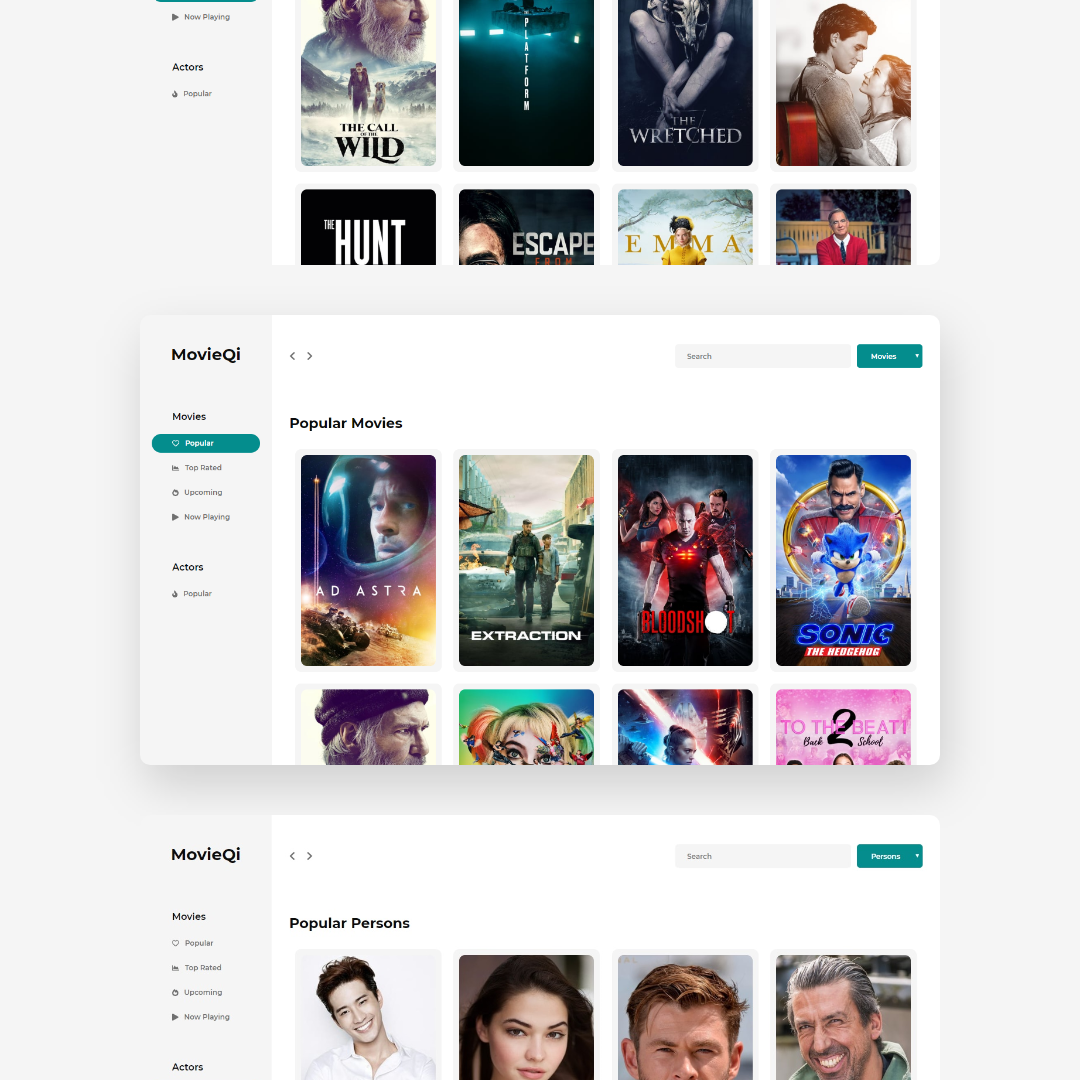
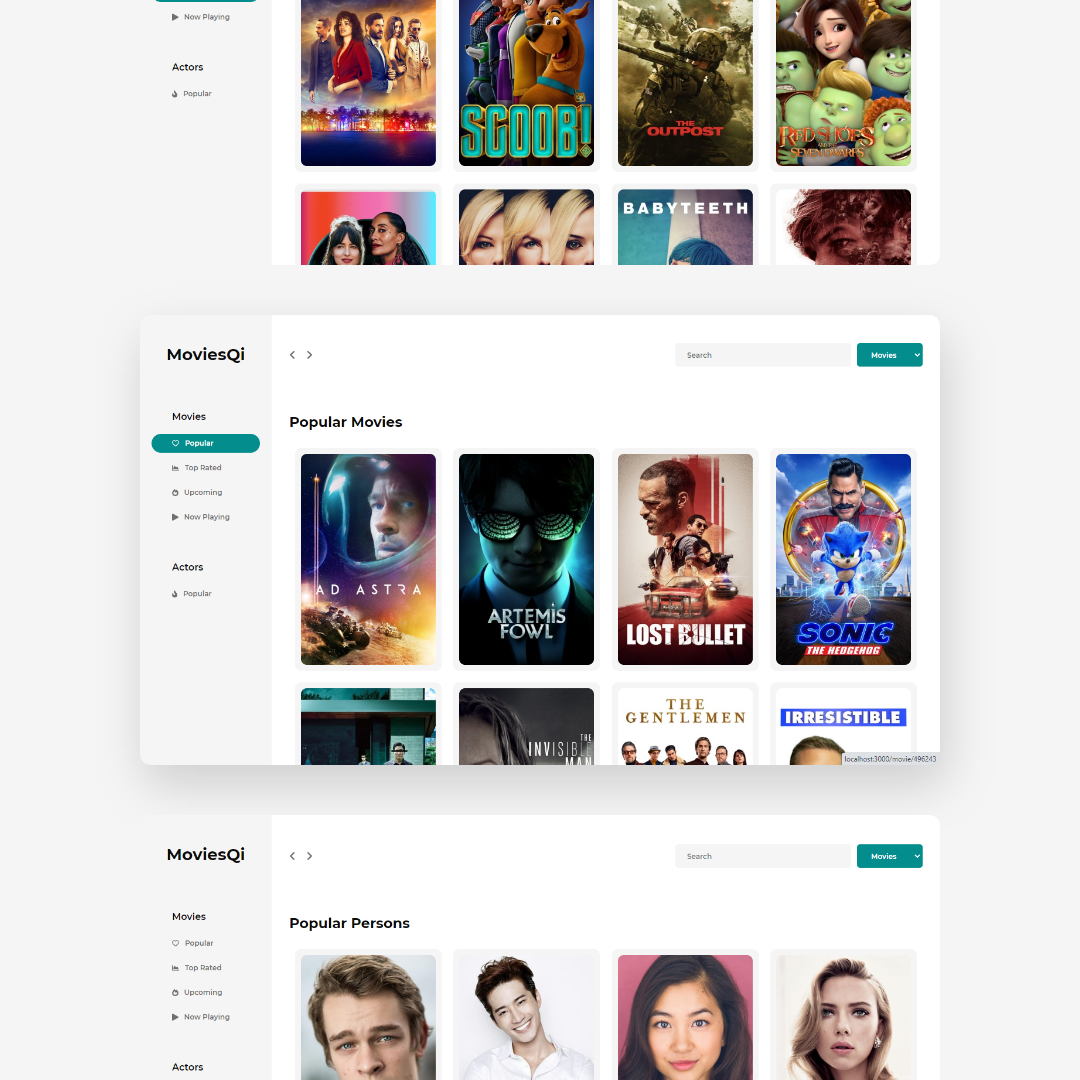
Edit the Image

diff --git a/src/components/Sidebar/index.js b/src/components/Sidebar/index.js
@@ -62,7 +62,7 @@ const Sidebar = ({ opened }) => {
           <FontAwesomeIcon icon={faTimes} />
         </SidebarToggler>
         <NavbarWrapper>
-          <NavbarLogo>MovieQi</NavbarLogo>
+          <NavbarLogo>MoviesQi</NavbarLogo>
           <NavbarMenu>
             <NavbarHeading>Movies</NavbarHeading>
             <NavbarItem>
